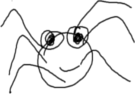
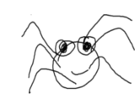
Made terrifying/hilarious spider movement.

Changed region(s): [[0.0, 0.0, 1.0, 1.0]]

diff --git a/RatsVsSpiders/src/RatTest.java b/RatsVsSpiders/src/RatTest.java
@@ -12,6 +12,7 @@ import javax.swing.JFrame;
 import javax.swing.Timer;
 import java.awt.event.KeyEvent;
 import java.util.ArrayList;
+import java.util.Random;
 
 
 
@@ -58,7 +59,7 @@ public abstract class RatTest extends JPanel implements ActionListener, KeyListe
        /* Graphics2D g2 = (Graphics2D) g;
         g2.fill(new Ellipse2D.Double(x, y, 40, 40));*/
         player.DrawRat(g);
-      
+     
          if (spiders.size()<3)
         {
             spiders.add(new Spider(10,10));
@@ -66,15 +67,17 @@ public abstract class RatTest extends JPanel implements ActionListener, KeyListe
         
          for(int i=0;i<spiders.size();i++){
         spiders.get(i).Draw(g); 
-//Here's the really bad collision
+//Here's the really bad collision below
         if (player.intersects(spiders.get(i))){
            spiders.remove(i);
            counter= counter+1;
            score.setText("Score:" + counter);
            
         }
+       
+        }
         
-         }
+         
   
  
              
@@ -86,12 +89,10 @@ public abstract class RatTest extends JPanel implements ActionListener, KeyListe
         repaint();
         player.x += velx;
         player.y += vely;
-    /*while(t.isRunning()){*/
-    /* for(int i = 0; i<spiders.size();i++){
-         
-        spiders.get(i).SpiderMovement(); 
-     }
-    */
+        
+    
+    
+    
     
     }
     
@@ -117,6 +118,7 @@ public abstract class RatTest extends JPanel implements ActionListener, KeyListe
     
     public void keyPressed(KeyEvent event){
         t.start();
+      SpiderMovement();
         int code = event.getKeyCode();
         
         if (code == KeyEvent.VK_UP){
@@ -138,4 +140,27 @@ public abstract class RatTest extends JPanel implements ActionListener, KeyListe
         repaint();
         t.stop();}
     
+    public void SpiderMovement(){
+        Random r = new Random();
+         for(int i = 0; i<spiders.size();i++){
+         
+        spiders.get(i).x+=r.nextInt(10);
+        repaint();
+        }
+         for(int i = 0; i<spiders.size();i++){
+         
+        spiders.get(i).x-=r.nextInt(10);
+        repaint();
+         }
+        for(int i = 0; i<spiders.size();i++){
+         
+        spiders.get(i).y+=r.nextInt(10);
+        repaint();
+        }
+        for(int i = 0; i<spiders.size();i++){
+         
+        spiders.get(i).y-=r.nextInt(10);
+        repaint();
+        }
+}
 }

diff --git a/RatsVsSpiders/src/Spider.java b/RatsVsSpiders/src/Spider.java
@@ -21,8 +21,9 @@ public class Spider extends Rectangle {
    
     /*private final Dimension size; */
     
-    private int SpiderLocx;
-    private int SpiderLocy;
+    public int SpiderLocx;
+    public int SpiderLocy;
+    public int SpiderSpeed;
     private final ImageIcon image;
     private final int imageSize;
     private Image ResizedImage;
@@ -33,20 +34,21 @@ public class Spider extends Rectangle {
         size = new Dimension(10, 10);
        */
        image = new ImageIcon("src/images/spiders.png");
-       ResizedImage = image.getImage().getScaledInstance(50, 50,Image.SCALE_DEFAULT);
+       ResizedImage = image.getImage().getScaledInstance(70, 70,Image.SCALE_DEFAULT);
        SpiderLocation();
      
        imageSize =image.getIconWidth();
-       setBounds(SpiderLocx, SpiderLocy, imageSize, imageSize);
+       setBounds(SpiderLocx, SpiderLocy, 40, 45);
        
     }
      public void Draw(Graphics g) {
    
-     g.drawImage(ResizedImage, this.x, this.y, null);
+    
+   g.drawImage(ResizedImage, this.x, this.y, null);
        
        
    
-       
+      
      }       
      public void SpiderLocation(){
          Random r = new Random();
@@ -56,22 +58,7 @@ public class Spider extends Rectangle {
               
         
      }
-     public void SpiderMovement(){
-       double Rn = Math.random();
-        int i = 1;
-        int random = (int)(Rn*3) + 1; 
-        if (random==1){
-             SpiderLocx = SpiderLocx+5;}
-               if(random==2){
-            SpiderLocx=SpiderLocx-5;
-               }
-               if(random==3){
-            SpiderLocy = SpiderLocy+5;
-                }
-               if(random==4){
-            SpiderLocy= SpiderLocy-5;
-            
-        }
+    
         
      }
-}
+
